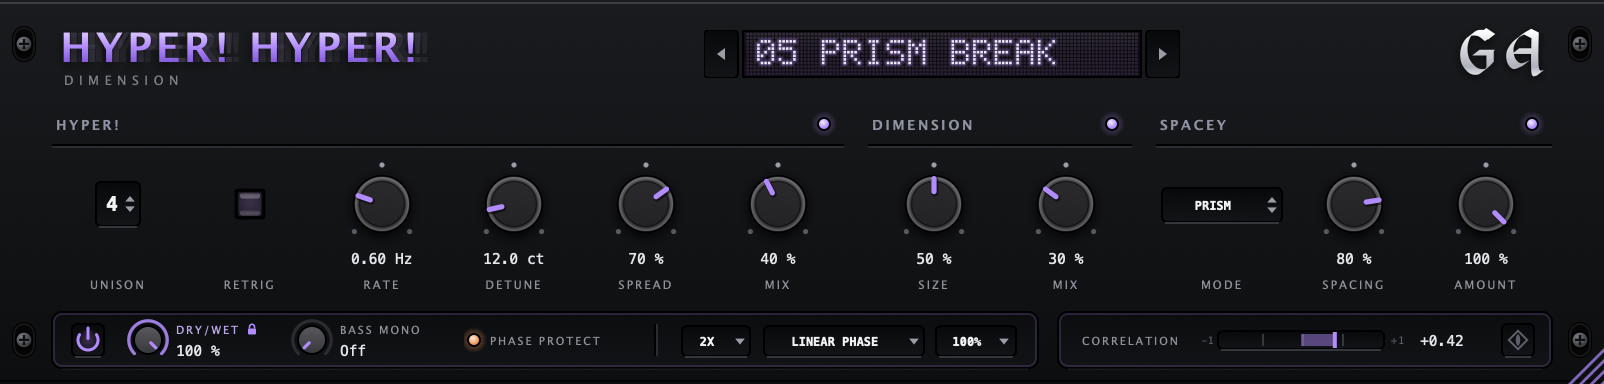
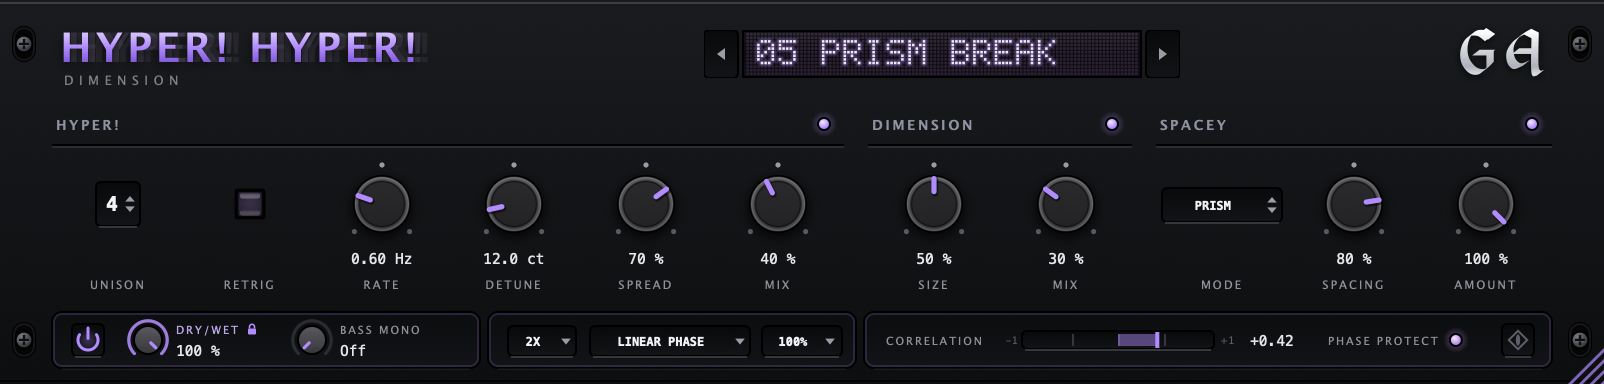
Bottom row in three boxes; Phase Protect next to the meter, LED after the text; mute message centred
- Output (Bypass, Dry/Wet, Bass Mono) | settings (oversampling, filter, size) | phase
  (correlation, Phase Protect, goniometer), 4 px apart; the correlation bar gets the room.
- Phase Protect sits in the phase box, its LED after the label.
- "OUTPUT MUTED" is centred on the dot grid (preset names stay left-aligned).

Changed region(s): [[0.2805, 0.8125, 0.9352, 0.9688], [0.5299, 0.8125, 0.5611, 0.8438]]

diff --git a/Source/MainPanel.cpp b/Source/MainPanel.cpp
@@ -10,18 +10,22 @@ namespace
     constexpr int   kHyperX = 26,  kHyperW = 396;
     constexpr int   kDimX   = 434, kDimW   = 132;
     constexpr int   kSpX    = 578, kSpW    = 198;   // "Spacey" (the widener)
-    constexpr int   kStripX = 26,  kStripY = 156, kStripW = 493, kStripH = 28;   // output + settings
-    constexpr int   kCorX   = kStripX + kStripW + 10, kCorW = ui::kWidth - 26 - kCorX;   // correlation box
+    // bottom row: three boxes, 4 px apart: output | settings | phase
+    constexpr int   kStripY = 156, kStripH = 28;
+    constexpr int   kOutX = 26,  kOutW = 214;                     // Bypass, Dry/Wet, Bass Mono
+    constexpr int   kSetX = kOutX + kOutW + 4, kSetW = 184;       // oversampling, filter, size
+    constexpr int   kCorX = kSetX + kSetW + 4, kCorW = ui::kWidth - 26 - kCorX;   // correlation, Phase Protect, goniometer
     constexpr int   kScopeX = ui::kWidth - 14, kScopeY = 14, kScopeSize = ui::kHeight - 28;
 
     float hyperSlot (int i) { return (float) kHyperX + kPitch * ((float) i + 0.5f); }
     float dimSlot   (int i) { return (float) kDimX   + kPitch * ((float) i + 0.5f); }
     float spSlot    (int i) { return (float) kSpX    + kPitch * ((float) i + 0.5f); }
 
-    // bottom strip, x positions: Bypass | Dry/Wet, Bass Mono, Phase Protect | oversampling, filter, size
-    constexpr int kSdBypass = kStripX + 9, kSdDryWet = kStripX + 36, kSdBass = kStripX + 118, kSdProtect = kStripX + 206;
-    constexpr int kSdDiv = kStripX + 301;
-    constexpr int kSdOs = kStripX + 313, kSdFilt = kSdOs + 41, kSdSize = kSdFilt + 87;
+    // x positions inside the boxes
+    constexpr int kSdBypass = kOutX + 9, kSdDryWet = kOutX + 36, kSdBass = kOutX + 118;
+    constexpr int kSdOs = kSetX + 8, kSdFilt = kSdOs + 41, kSdSize = kSdFilt + 87;
+    constexpr int kSdMeterW = 220;                                // the correlation meter, from the box's left edge + 7
+    constexpr int kSdProtect = kCorX + 230, kSdProtectW = 84;
 
     constexpr int   kPresetX = 352, kPresetY = 15, kPresetW = 238, kPresetH = 24;   // centred between title and logo
 
@@ -327,15 +331,9 @@ void MainPanel::paint (juce::Graphics& g)
     namesOf (sections[0], { { hyperSlot (0), "Unison" }, { hyperSlot (1), "Retrig" } });
     namesOf (sections[2], { { spSlot (0), "Mode" } });
 
-    // bottom strip: global output and settings
-    ui::drawInsetPanel (g, juce::Rectangle<float> ((float) kStripX, (float) kStripY, (float) kStripW, (float) kStripH));
-    g.setColour (juce::Colours::black);
-    g.drawVerticalLine (kSdDiv, (float) kStripY + 6.0f, (float) (kStripY + kStripH) - 6.0f);
-    g.setColour (juce::Colour (0xff2a2c31));
-    g.drawVerticalLine (kSdDiv + 1, (float) kStripY + 6.0f, (float) (kStripY + kStripH) - 6.0f);
-
-    // correlation box; the goniometer opens to its right
-    ui::drawInsetPanel (g, juce::Rectangle<float> ((float) kCorX, (float) kStripY, (float) kCorW, (float) kStripH));
+    // bottom row: output | settings | phase (the goniometer opens to the right of the phase box)
+    for (auto [x, w] : { std::pair<int, int> { kOutX, kOutW }, { kSetX, kSetW }, { kCorX, kCorW } })
+        ui::drawInsetPanel (g, juce::Rectangle<float> ((float) x, (float) kStripY, (float) w, (float) kStripH));
 
     if (goniometer.isVisible())
     {
@@ -387,12 +385,12 @@ void MainPanel::resized()
     bypass.setBounds   (kSdBypass, scy - 9, 18, 18);
     dryWet.setBounds   (kSdDryWet, kStripY + 1, 78, kStripH - 2);
     bassMono.setBounds (kSdBass,   kStripY + 1, 86, kStripH - 2);
-    phaseProtect.setBounds (kSdProtect, scy - 9, 84, 18);
+    phaseProtect.setBounds (kSdProtect, scy - 9, kSdProtectW, 18);
     osFactor.setBounds (kSdOs,   scy - 8, 38, 17);
     osFilter.setBounds (kSdFilt, scy - 8, 84, 17);
     sizeBox.setBounds  (kSdSize, scy - 8, 42, 17);
 
-    correlation.setBounds (kCorX + 8, kStripY, kCorW - 40, kStripH);
+    correlation.setBounds (kCorX + 7, kStripY, kSdMeterW, kStripH);
     scopeButton.setBounds (kCorX + kCorW - 26, scy - 9, 18, 18);
 
     goniometer.setBounds (juce::Rectangle<int> (kScopeX, kScopeY, kScopeSize, kScopeSize).reduced (6));

diff --git a/Source/PresetBar.cpp b/Source/PresetBar.cpp
@@ -144,31 +144,31 @@ void PresetBar::paintDisplay (juce::Graphics& g, juce::Rectangle<float> r)
     g.setGradientFill (juce::ColourGradient (juce::Colour (0xff07060a), 0.0f, r.getY(), juce::Colour (0xff120e17), 0.0f, r.getBottom(), false));
     g.fillRect (r);
 
-    // which cells are lit: "NN NAME" from the left, the star in the last slot
+    // which cells are lit: "NN NAME" from the left with the star in the last slot, or the
+    // safety mute warning in the middle of the grid
     std::vector<bool> lit ((size_t) (kCols * kRows), false);
-    auto put = [&lit] (juce::juce_wchar ch, int slot)
+    auto put = [&lit] (juce::juce_wchar ch, int firstCol)
     {
         const auto& rows = glyph (ch);
         for (int row = 0; row < 7; ++row)
             for (int col = 0; col < 5; ++col)
                 if ((rows[(size_t) row] >> (4 - col)) & 1)
-                    lit[(size_t) ((kTextRow + row) * kCols + kTextCol + slot * 6 + col)] = true;
+                    lit[(size_t) ((kTextRow + row) * kCols + firstCol + col)] = true;
     };
     if (muted)
     {
+        const juce::String warning ("! OUTPUT MUTED !");
+        const int firstCol = (kCols - (warning.length() * 6 - 1)) / 2;
         if (blinkOn)
-        {
-            const juce::String warning ("! OUTPUT MUTED !");
             for (int i = 0; i < warning.length(); ++i)
-                put (warning[i], i);
-        }
+                put (warning[i], firstCol + i * 6);
     }
     else
     {
         for (int i = 0; i < text.length() && i < kSlots - 1; ++i)
-            put (text[i], i);
+            put (text[i], kTextCol + i * 6);
         if (modified)
-            put ('*', kSlots - 1);
+            put ('*', kTextCol + (kSlots - 1) * 6);
     }
 
     // the grid, centred in the glass: every cell is a square LED, lit or not

diff --git a/Source/Controls.cpp b/Source/Controls.cpp
@@ -564,12 +564,15 @@ void SectionLed::paintButton (juce::Graphics& g, bool isOver, bool)
 //==============================================================================
 void LedToggle::paintButton (juce::Graphics& g, bool isOver, bool)
 {
+    // the label, then the LED right after it
     const float cy = (float) getHeight() * 0.5f;
-    ui::drawLed (g, { 5.0f, cy }, getToggleState(), alarm);
+    const auto font = ui::font (6.5f, false, 0.15f);
+    const auto text = getButtonText().toUpperCase();
+    const float textW = juce::GlyphArrangement::getStringWidth (font, text);
     g.setColour (isOver ? juce::Colour (0xffc9cbd1) : ui::labelGrey);
-    g.setFont (ui::font (6.5f, false, 0.15f));
-    g.drawText (getButtonText().toUpperCase(), juce::Rectangle<float> (13.0f, cy - 5.0f, (float) getWidth() - 13.0f, 10.0f),
-                juce::Justification::centredLeft, false);
+    g.setFont (font);
+    g.drawText (text, juce::Rectangle<float> (2.0f, cy - 5.0f, textW + 2.0f, 10.0f), juce::Justification::centredLeft, false);
+    ui::drawLed (g, { 2.0f + textW + 8.0f, cy }, getToggleState(), alarm);
 }
 
 //==============================================================================

diff --git a/tools/Screenshots.cpp b/tools/Screenshots.cpp
@@ -98,11 +98,11 @@ namespace
             {  44.0f,  6 },   // bypass
             {  74.0f,  7 },   // dry / wet (locked in the screenshot)
             { 156.0f,  8 },   // bass mono
-            { 237.0f,  9 },   // phase protect
-            { 358.0f, 10 },   // oversampling
-            { 422.0f, 11 },   // anti-alias filter
-            { 488.0f, 12 },   // window size
-            { 645.0f, 13 },   // correlation
+            { 271.0f,  9 },   // oversampling
+            { 335.0f, 10 },   // anti-alias filter
+            { 401.0f, 11 },   // window size
+            { 560.0f, 12 },   // correlation
+            { 703.0f, 13 },   // phase protect
             { 759.0f, 14 },   // goniometer
         };
         const float y = (float) h + (float) kCalloutH * 0.5f;

diff --git a/Source/Controls.h b/Source/Controls.h
@@ -121,7 +121,7 @@ private:
     bool lit = true;
 };
 
-// round LED with a label after it; LED and label are one switch (Phase Protect)
+// a label with a round LED after it; label and LED are one switch (Phase Protect)
 class LedToggle : public juce::Button
 {
 public:

diff --git a/README.md b/README.md
@@ -97,12 +97,12 @@ position is each mode's default, and the knob briefly holds there as you drag pa
 6. **Bypass**, at equal loudness. Bypass and Dry/Wet at 0 % dim the whole interface.
 7. **Dry/Wet** for the whole effect. Click the name to lock it (padlock, as shown).
 8. **Bass Mono**: mono below this frequency. Click the name to lock it.
-9. **Phase Protect** on / off. The LED flashes orange while it audibly narrows the sound (as in the picture).
-10. **Oversampling.** The tooltip shows the current latency.
-11. **Anti-alias filter**: Linear Phase or Low Latency.
-12. **Window size**, 75–200 %. You can also drag the bottom right corner.
-13. **Correlation meter.** +1 is mono and 0 is very wide. Below 0 (red) means parts of the
+9. **Oversampling.** The tooltip shows the current latency.
+10. **Anti-alias filter**: Linear Phase or Low Latency.
+11. **Window size**, 75–200 %. You can also drag the bottom right corner.
+12. **Correlation meter.** +1 is mono and 0 is very wide. Below 0 (red) means parts of the
     signal cancel in mono.
+13. **Phase Protect** on / off. The LED flashes orange while it audibly narrows the sound.
 14. **Goniometer.** Opens the stereo scope next to the meter:
 
 ![With the goniometer open](docs/goniometer.png)
